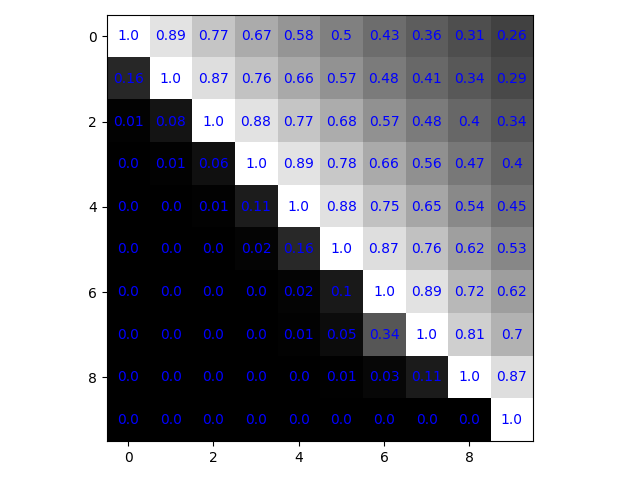
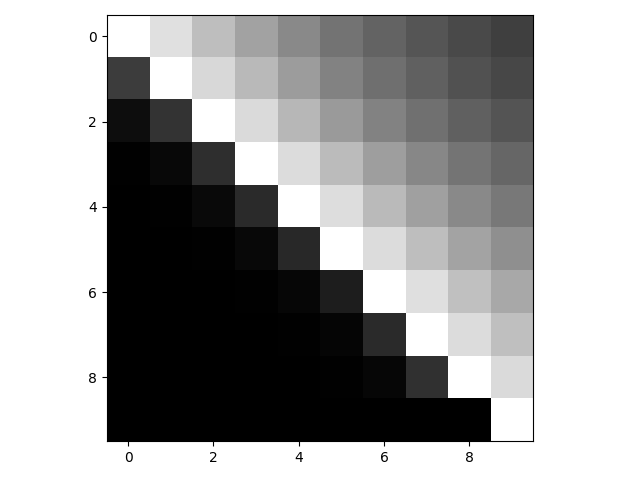
vectorization of updating SR matrix(M_matrix)
1D maze tested
1. 10, 100 size
2. figures
2.1. SR matrix heatmap
2.1. updating history of last state_prime of SR value

diff --git a/hippocampus-as-a-predictive-map.py b/hippocampus-as-a-predictive-map.py
@@ -1,6 +1,7 @@
 # refactoring https://github.com/nicoring/hippocampus-predictive-map for me
 
 # load libray
+import copy
 import numpy as np
 import matplotlib.pyplot as plt
 from tqdm import tqdm
@@ -58,82 +59,81 @@ def choose_action(state, prefered = True):
     return action
 
 # for matrix M
-def state_to_idx(state, s_prime, next_state, all_states):
+def state_to_idx(state, next_state, all_states):
     for idx in range(len(all_states)):
         if all_states[idx] == state:
-            idx_state = idx
-    for idx in range(len(all_states)):
-        if all_states[idx] == s_prime:
-            idx_s_prime = idx    
+            idx_state = idx  
     for idx in range(len(all_states)):
         if all_states[idx] == next_state:
             idx_next_state = idx        
-    
-    return idx_state, idx_s_prime, idx_next_state
+    return idx_state, idx_next_state
 
 
-def update_SR_matrix(state, s_prime, next_state, I, next_sr_matrix,\
-    all_states, alpha = alpha, gamma = gamma):
-    idx_state, idx_s_prime, idx_next_state = \
-        state_to_idx(state, s_prime, next_state, all_states)
-    M_element = next_sr_matrix[idx_state, idx_s_prime]
-    M_next_state_element = next_sr_matrix[idx_next_state, idx_s_prime]
-    new_M_element = M_element + alpha * (I + gamma * M_next_state_element - \
-        M_element)
-    next_sr_matrix[idx_state, idx_s_prime] = new_M_element
-    if idx_state == idx_s_prime:
-        next_sr_matrix[idx_state, idx_s_prime] = 1
-    return next_sr_matrix  
-
-
-
-    
-
-# r = np.array([[0,0,0,0,1]])
+def update_SR_matrix(state, next_state, sr_matrix, all_states, alpha = alpha, \
+    gamma = gamma):
+    idx_state, idx_next_state = state_to_idx(state, next_state, all_states)
+    I = np.zeros(sr_matrix[0, :].shape)
+    I[idx_state] = 1
+    M_state_V = sr_matrix[idx_state, :]
+    M_next_state_V = sr_matrix[idx_next_state, :]
+    sr_matrix[idx_state, :] = M_state_V + alpha * (I + \
+        gamma * M_next_state_V - M_state_V)
+    sr_matrix[idx_state, idx_state] = 1
+    return sr_matrix  
 
 # prepare for SR matrix
-values = np.zeros(maze.shape, dtype=np.float)
-visited = np.zeros(maze.shape)
 all_states = [[x, y] for x in range(maze.shape[0]) for y in range(maze.shape[1])]
-# 여기서 state란 좌표를 의미한다. 꼭 좌표로 받아야 하나?
-# all_states = [np.array(s) for s in it.product(range(maze.shape[0], \
-#    range(maze.shapes[1])))]
 
-n_states = maze.shape[0] * maze.shape[1]
 sr_matrix = np.eye(len(all_states), dtype=np.float)
 
+history_sr_matrix = []
 
-s = None
+history_exp_idx = 0
 
-
-
-next_sr_matrix = sr_matrix.copy()
-
-for i in tqdm(range(1000)):
+for i in tqdm(range(10001)):
     state = START
+    if i == 0: 
+        history_sr_matrix.append(copy.deepcopy(sr_matrix[:, len(all_states)-1]))
+    
     while state != END:
         action = choose_action(state, prefered=True)
         next_state, _ = step(state, action)
-        visited[next_state[0], next_state[1]] += 1.0
-        for s_prime in all_states:
-            I = 1 if state == s_prime else 0
-            next_sr_matrix = update_SR_matrix(state, s_prime, next_state, I, \
-                next_sr_matrix, all_states)
+        sr_matrix = update_SR_matrix(state, next_state, sr_matrix, all_states)
 
-        state = next_state  
-def figure():  
+        state = next_state
+
+    if i == (10 ** history_exp_idx):
+       history_sr_matrix.append(copy.deepcopy(sr_matrix[:, len(all_states)-1]))
+       history_exp_idx += 1
+    
+ 
+def figure_matrix():  
     fig, ax = plt.subplots() 
-    im = ax.imshow(next_sr_matrix, cmap='gray', interpolation='nearest')
-    for idx in range(next_sr_matrix.shape[0]):
-        for jdx in range(next_sr_matrix.shape[1]):
-            text = ax.text(jdx, idx,round(next_sr_matrix[idx, jdx],2), \
+    ax.imshow(sr_matrix, cmap='gray', interpolation='nearest')
+    '''
+    for idx in range(sr_matrix.shape[0]):
+        for jdx in range(sr_matrix.shape[1]):
+            text = ax.text(jdx, idx,round(sr_matrix[idx, jdx],2), \
                 ha = "center", va = "center", color = "b")
-            
+    '''        
     fig.tight_layout()
-    plt.savefig('./images/sr_matrix_10.png')
+    plt.savefig('./images/sr_matrix_' + str(MAZE_LENGTH) + '.png')
     plt.close()
 
+def figure_history():
+    for_legend = []
+    for idx in range(len(history_sr_matrix)):
+        plt.plot(history_sr_matrix[idx])
+        if idx == 0:
+            for_legend.append("init")
+        else:
+            for_legend.append("10^"+str(idx-1))
+    plt.legend(for_legend, loc = 'upper left')
+    plt.savefig('./images/sr_histroy_' + str(MAZE_LENGTH) + '.png')
+
+
 if __name__=='__main__':
-    figure()
+    figure_matrix()
+    figure_history()
 
 
